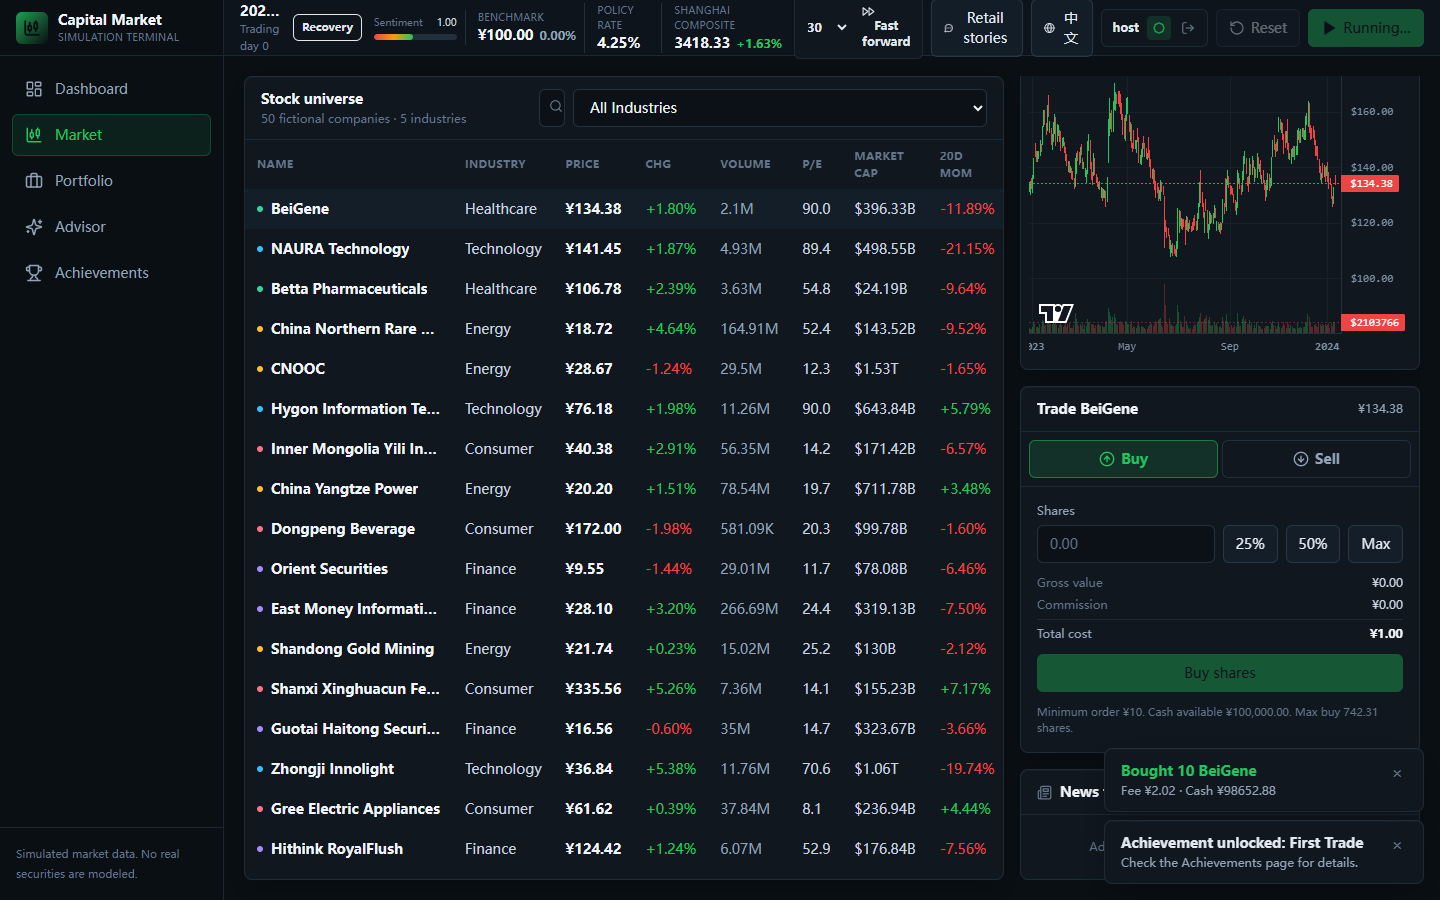
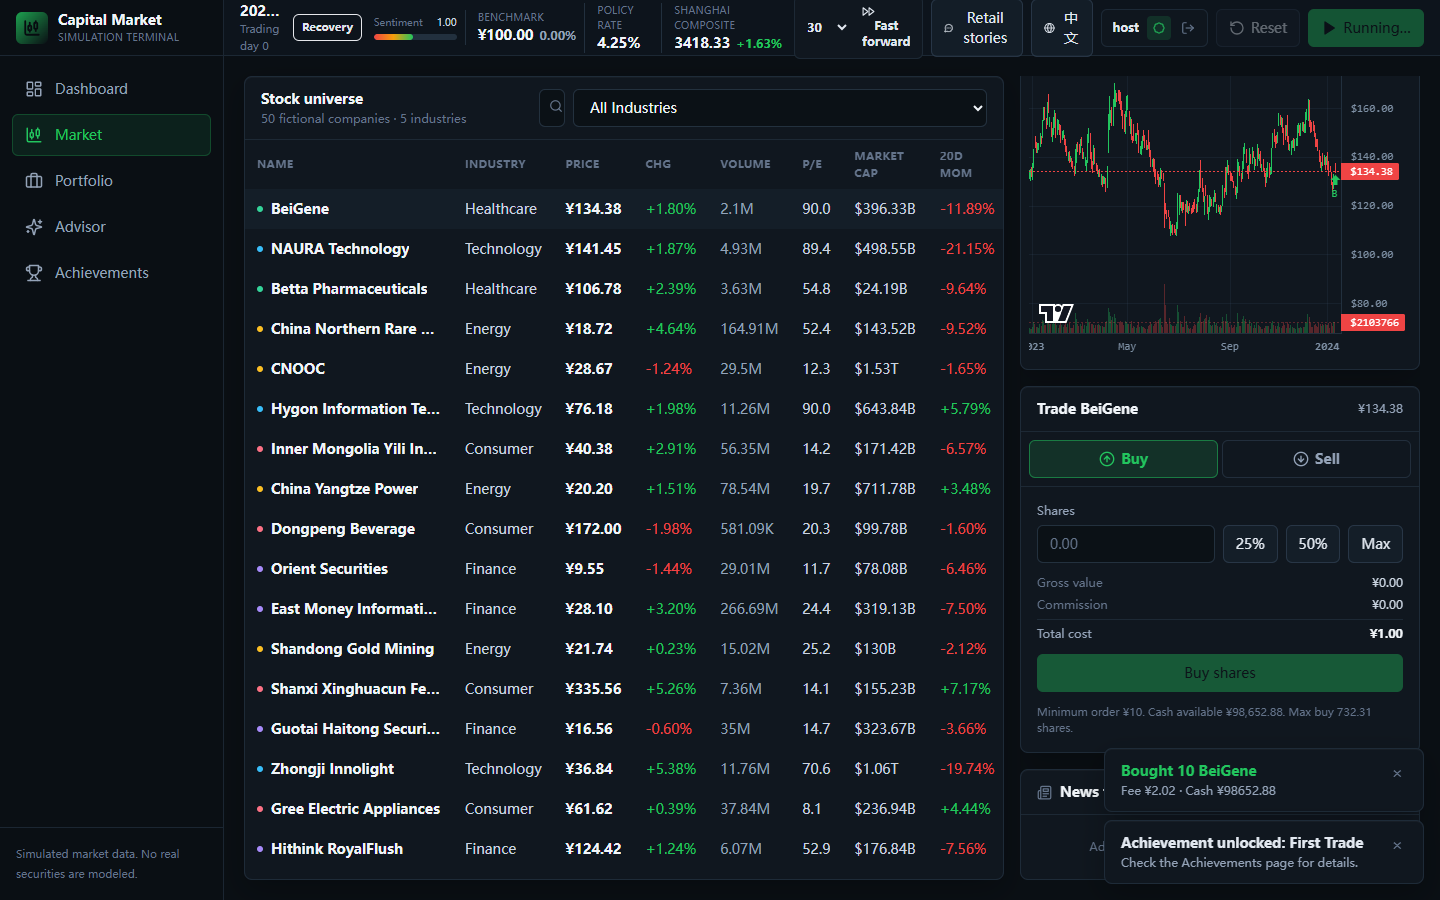
Default UI to Chinese and sync request language

diff --git a/test/visual-test.js b/test/visual-test.js
@@ -51,7 +51,10 @@ async function loginHost(page) {
   const reset = await page.request.post(`${BASE}/api/game/reset`);
   if (!reset.ok()) throw new Error(`game reset failed: ${reset.status()}`);
   await page.goto(BASE, { waitUntil: "domcontentloaded" });
-  await page.evaluate(() => localStorage.clear());
+  await page.evaluate(() => {
+    localStorage.clear();
+    localStorage.setItem("cms-lang", "en");
+  });
   await page.reload({ waitUntil: "domcontentloaded" });
   await page.waitForSelector("text=Login", { timeout: 20000 });
   await page.locator(".panel input").first().fill("host");
@@ -136,6 +139,9 @@ async function canvasCheck(page, label) {
   watch(mobile);
   await mobile.goto(BASE, { waitUntil: "domcontentloaded" });
   await mobile.evaluate(() => localStorage.clear());
+  await mobile.reload({ waitUntil: "domcontentloaded" });
+  await mobile.waitForSelector("text=登录", { timeout: 20000 });
+  await mobile.evaluate(() => localStorage.setItem("cms-lang", "en"));
   await mobile.reload({ waitUntil: "domcontentloaded" });
   await mobile.waitForSelector("text=Login", { timeout: 20000 });
   await mobile.locator(".panel input").first().fill("host");

diff --git a/frontend/src/store/AppContext.jsx b/frontend/src/store/AppContext.jsx
@@ -39,7 +39,7 @@ function Toast({ id, kind, title, detail, onClose }) {
 }
 
 export function AppProvider({ children }) {
-  const [lang, setLang] = useState(() => localStorage.getItem("cms-lang") || "en");
+  const [lang, setLang] = useState(() => localStorage.getItem("cms-lang") || "zh");
   const [authPlayer, setAuthPlayer] = useState(null);
   const [authChecked, setAuthChecked] = useState(false);
   const [view, setView] = useState("dashboard");
@@ -65,6 +65,10 @@ export function AppProvider({ children }) {
   const toastId = useRef(0);
   const achievementsRef = useRef(null);
   const didInit = useRef(false);
+
+  useEffect(() => {
+    setApiLanguage(lang);
+  }, [lang]);
 
   useEffect(() => {
     achievementsRef.current = achievements;

diff --git a/frontend/src/api/client.js b/frontend/src/api/client.js
@@ -1,5 +1,5 @@
 const BASE = import.meta.env.VITE_API_BASE || "";
-let language = "en";
+let language = localStorage.getItem("cms-lang") || "zh";
 const REQUEST_TIMEOUT_MS = 20000;
 
 function authHeaders() {

diff --git a/README.md b/README.md
@@ -84,7 +84,7 @@ npm run dev
 Open http://127.0.0.1:5173 and log in with the seeded account `host / 123456`.
 The SQLite database is created and seeded automatically at
 `backend/data/market.db` on first startup. Use the globe button in the top bar
-to switch between English and Chinese.
+to switch between English and Chinese. The UI defaults to Chinese.
 
 ## Run the Tests
 
